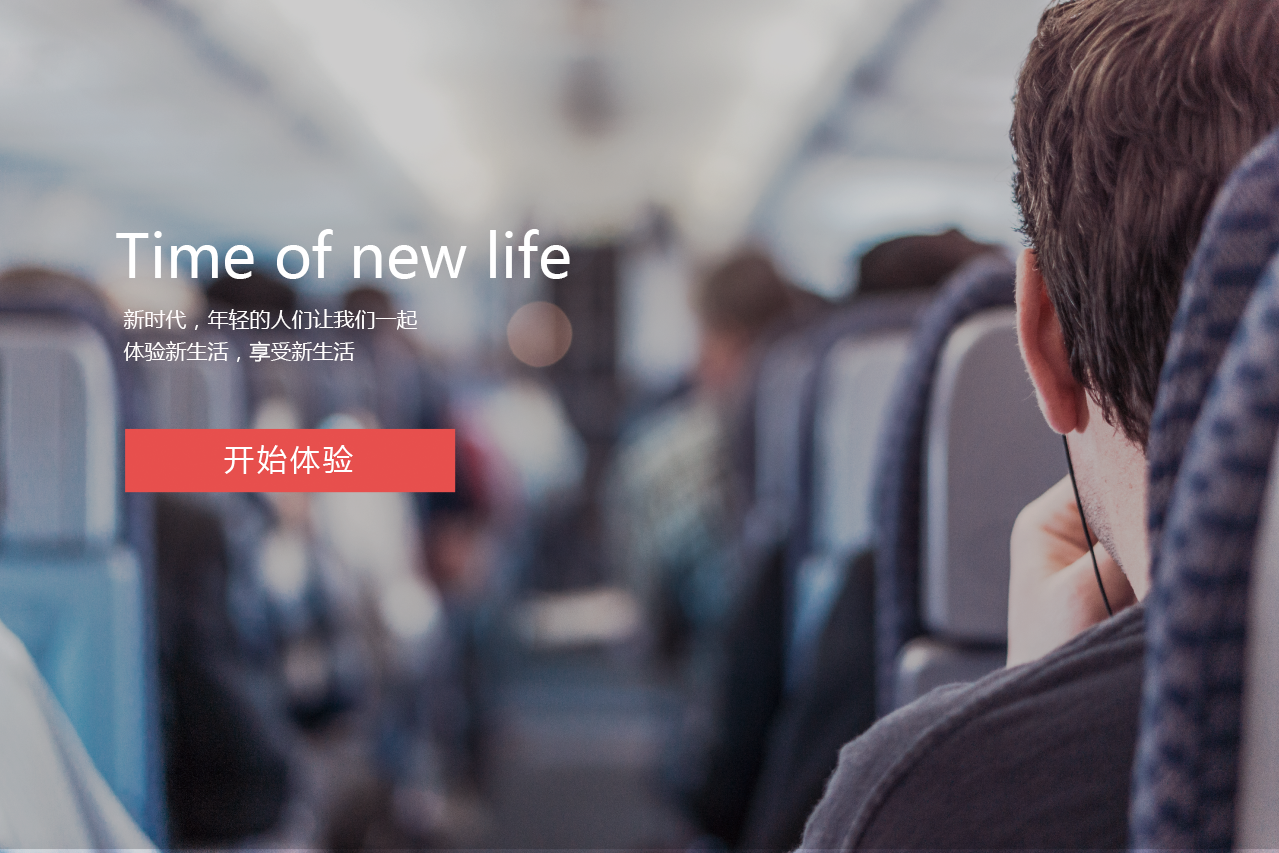
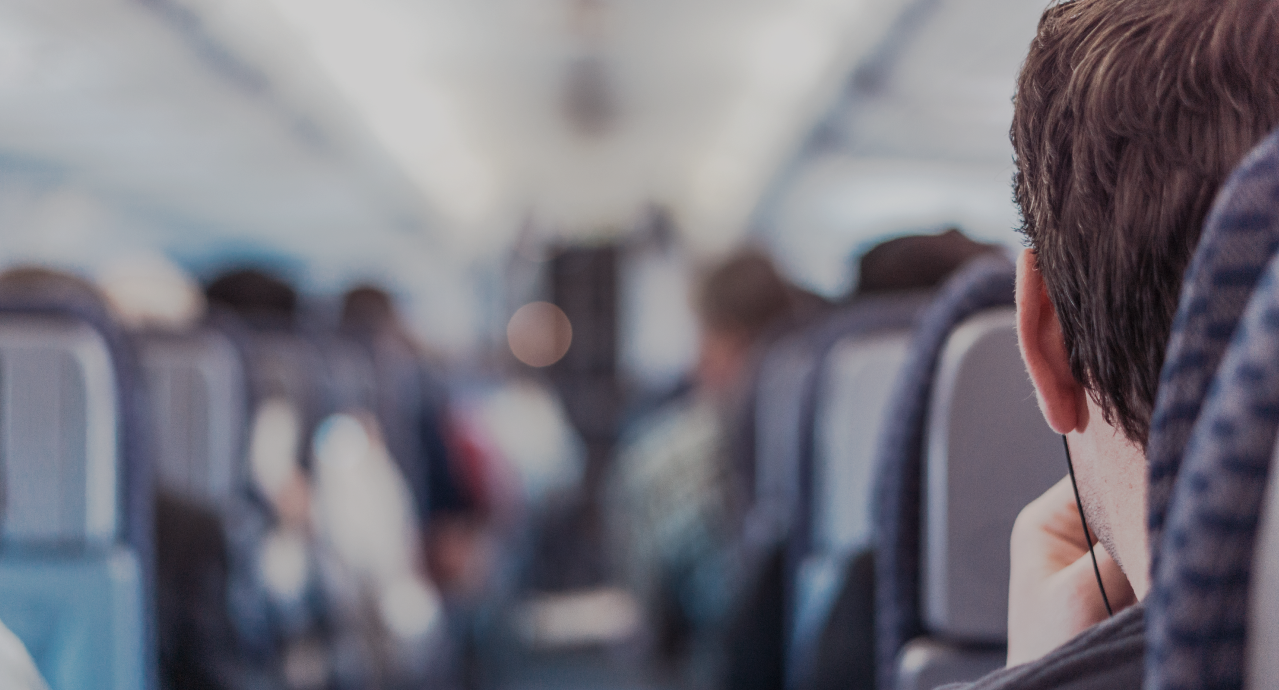
03-22-2

diff --git a/xwxy/07/xwxy7.html b/xwxy/07/xwxy7.html
@@ -80,6 +80,10 @@
 			border-bottom:3px solid #e74f4d;
 			color: #e9605e;
 		}
+		.navRight ul li:nth-child(1) a{
+			border-bottom:3px solid #e74f4d;
+			color: #e9605e;
+		}
 		/*banner样式*/
 		.banner{
 			width: 100%;
@@ -89,10 +93,17 @@
 			background-size: 100% 100%;
 			position: relative;	
 		}
-		.banner a{
-			width: 100%;
-			height: 100%;
-			display: block;
+		.bannerShow{
+			display:inline-block;
+			width:100%;
+			height:100%;
+			transition:all 1s linear;	
+		}
+		.bannerShow:hover{
+			opacity: .3;
+			background-color: #000;
+			transition: all 1s linear;
+			z-index: 1;
 		}
 		.bannerUnd{
 			height: 250px;
@@ -136,6 +147,59 @@
 			text-align: center;
 			color: #8d8d8d;
 			font-size: 14px;
+		}
+		.bannerUndTex1 p:hover{
+			transition: text-shadow 0.5s ease-in-out;
+			text-shadow: 2px 2px 2px #5b606f;
+		}
+		.bannerUndTex p:hover{
+			transition: text-shadow 0.5s ease-in-out;
+			text-shadow: 2px 2px 2px #5b606f;
+		}
+		.bannerLeft{
+			position: absolute;
+			margin-top: 230px;
+			margin-left: 176px;
+			z-index: 2;
+		}
+		.bannerLeftTop{
+			color: #fff;
+			font-size: 50px;
+		}
+		.bannerLeftTop p{
+			margin: 0;
+			padding: 0;
+		}
+		.bannerLeftUnd{
+			font-size: 20px;
+			color: #fff;
+			margin-top: 17px;
+		}
+		.bannerLeftUnd p{
+			margin: 0;
+			padding: 0;
+			margin-top: 13px;
+		}
+		.bannerLeftBut{
+			margin-top: 68px;
+		}
+		.bannerLeftBut input{
+			width: 330px;
+			height: 63px;
+			background-color: #e74f4d;
+			color:#fff;
+			border: none;
+			border-radius: 5px;
+			outline: none;
+		}
+		.bannerLeftBut input:hover{
+			background-color: #F5F5DC;
+			color: #e74f4d;
+			box-shadow: 3px 3px 3px #F5F5DC;
+		}
+		.bannerLeftTop p:hover{
+			transition: text-shadow 0.5s ease-in-out;
+			text-shadow: 4px 4px 4px #e74f4d;
 		}
 		/*第三栏book样式*/
 		.book{
@@ -227,12 +291,6 @@
 		.option:hover .mapUndBox{
 			border: 1px solid #fff;
 		}
-		/*.mapUndBox select option{
-			height: 80px;
-			background-color: #e3e3e4;
-			color: #89898a;
-			outline:none;
-		}*/
 		.mapUndBox select option:hover option{
 			border: 1px solid #be4e48;
 			background-color: #be4e48;
@@ -244,8 +302,61 @@
 			color: #ffffff;
 			border: 1px solid #bf4f49;
 			outline:none;
+		}  /*map结束*/
+		/*第五栏activity样式*/
+		.activity{
+			width: 100%;
+			height: 604px;
 		}
-		
+		.activityBox{
+			margin-left: calc(50% - 511px);
+			margin-top: 100px;
+			height: 390px;
+			width: 986px;
+		}
+		.activityCon{
+			height: 388px;
+			width: 218px;
+			float: left;
+			margin-left: 26px;
+		}
+		.activityConTop{
+			height: 336px;
+			width: 217px;
+			border: 1px solid #dadada;
+		}
+		.activityConTop img{
+			margin-top: 13px;
+			margin-left: 8px;
+		}
+		.activityConUnd h4{
+			text-align: center;
+			transition: letter-spacing 1s;
+			margin: 0;
+			padding: 0;
+			margin-top: 13px;
+			font-size: 13px;
+		}
+		.activityConUnd p{
+			text-align: center;
+			color: #dadada;
+			font-size: 12px;
+			margin: 0;
+			padding: 0;
+			margin-top: 11px;
+		}
+		.activityConTop:hover{
+			transform:translateY(65px);
+		}
+		.activityConTop:hover~.activityConUnd h4{
+			margin-top: 0;
+			letter-spacing: 25px;
+			margin-left: 25px;
+			font-size: 20px;
+		}
+		.activityConTop:hover~.activityConUnd{
+			transform:translateY(-360px);
+		}
 	</style>
 </head>
 <body>
@@ -267,7 +378,17 @@
 	</nav>    <!-- nav结束 -->
 
 	<div class="banner">
-		<a href=""></a>
+		<div class="bannerLeft">
+			<div class="bannerLeftTop"><p>Time of new life</p></div>
+			<div class="bannerLeftUnd">
+			<p>新时代,年轻的人们让我们一起</p>
+			<p>体验新生活，享受新生活</p>
+			</div>
+			<div class="bannerLeftBut">
+				<input type="button" name="" value="开始体验">
+			</div>
+		</div>
+		<span href="" class="bannerShow"></span>
 		<div class="bannerUnd clearFix">
 			<div class="bannerUnd1">
 				<div class="bannerUndImg"><img src="xwxy7_banner1.png"></div>
@@ -340,7 +461,46 @@
 		</div>
 	</div>  <!-- map结束 -->
 
-	<div></div>
+	<div class="activity">
+		<div class="activityBox">
+			<div class="activityCon">
+				<div class="activityConTop">
+					<img src="xwxy7_activ1.png">
+				</div>
+				<div class="activityConUnd">
+					<h4>北京活动</h4>
+					<p>新社区大联盟</p>
+				</div>
+			</div>
+			<div class="activityCon">
+				<div class="activityConTop">
+					<img src="xwxy7_activ2.png">
+				</div>
+				<div class="activityConUnd">
+					<h4>上海活动</h4>
+					<p>夜上海新景观探索</p>
+				</div>
+			</div>
+			<div class="activityCon">
+				<div class="activityConTop">
+					<img src="xwxy7_activ3.png">
+				</div>
+				<div class="activityConUnd">
+					<h4>深圳活动</h4>
+					<p>全新海岸线观点站</p>
+				</div>
+			</div>
+			<div class="activityCon">
+				<div class="activityConTop">
+					<img src="xwxy7_activ4.png">
+				</div>
+				<div class="activityConUnd">
+					<h4>香港活动</h4>
+					<p>奢侈消费大派送</p>
+				</div>
+			</div>
+		</div>
+	</div>
 	<div></div>
 	<div></div>
 	<div></div>
